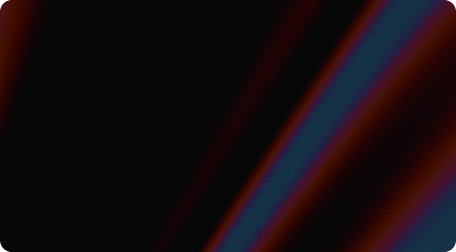
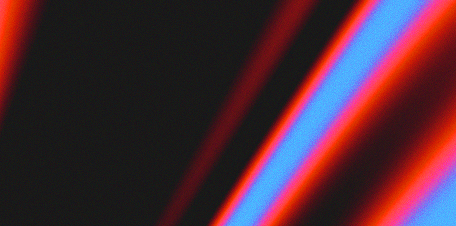
redesign: Dashboard overview to have dynamic colors based on the selected account

diff --git a/src/common/modules/dashboard/components/DashboardOverview/OverviewBackground.tsx b/src/common/modules/dashboard/components/DashboardOverview/OverviewBackground.tsx
@@ -1,0 +1,91 @@
+import { StyleSheet, View } from 'react-native'
+import { Defs, FeBlend, FeColorMatrix, Filter, Image as SvgImage, Svg } from 'react-native-svg'
+
+import useControllerState from '@common/hooks/useControllerState'
+import { BORDER_RADIUS_PRIMARY } from '@common/styles/utils/common'
+import { getAvatarColors } from '@common/utils/avatars'
+
+import backgroundImage from './background.png'
+
+/** Parse a hex color to normalized [r, g, b] values (0–1) */
+function hexToRgbNorm(hex: string): [number, number, number] {
+  return [
+    parseInt(hex.slice(1, 3), 16) / 255,
+    parseInt(hex.slice(3, 5), 16) / 255,
+    parseInt(hex.slice(5, 7), 16) / 255
+  ]
+}
+
+// How different are two colors perceptually? Returns 0 (same) to 1 (max contrast).
+// Using luminance weights because our eyes are much more sensitive to green than blue.
+function colorDistance(hex1: string, hex2: string): number {
+  const [r1, g1, b1] = hexToRgbNorm(hex1)
+  const [r2, g2, b2] = hexToRgbNorm(hex2)
+  return Math.sqrt(0.299 * (r1 - r2) ** 2 + 0.587 * (g1 - g2) ** 2 + 0.114 * (b1 - b2) ** 2)
+}
+
+// Builds a 4×5 SVG color matrix that takes one source channel (R=0, G=1, B=2)
+// and outputs it as the given target color. Everything else goes black, so only
+// the relevant tones in the image get recolored and the two layers don't bleed into each other.
+function channelToColorMatrix(srcChannel: 0 | 1 | 2, tr: number, tg: number, tb: number): string {
+  const row = (target: number) => {
+    const r = [0, 0, 0, 0, 0]
+    r[srcChannel] = target
+    return r.join(' ')
+  }
+  return `${row(tr)} ${row(tg)} ${row(tb)} 0 0 0 1 0`
+}
+
+export function OverviewBackground({ address, maxHeight }: { address: string; maxHeight: number }) {
+  const { state } = useControllerState({ id: 'WalletStateController' })
+  const colors = getAvatarColors(state.avatarType, address)
+
+  // Avatar colors[0] and colors[1] can sometimes be almost identical (e.g. two dark purples).
+  // In that case, fall back to colors[2] as the secondary so the two layers actually look different.
+  const DISTANCE_THRESHOLD = 0.2
+  const d01 = colorDistance(colors[0], colors[1])
+  const d02 = colorDistance(colors[0], colors[2])
+  const secondary = d01 >= DISTANCE_THRESHOLD || d02 < d01 ? colors[1] : colors[2]
+
+  const [r1, g1, b1] = hexToRgbNorm(colors[0])
+  const [r2, g2, b2] = hexToRgbNorm(secondary)
+
+  // Two matrices: one that maps the red tones in the image to the primary avatar color,
+  // and one that maps the blue tones to the secondary. feBlend screen then combines them
+  // so both colors show up without washing each other out.
+  const matrix1 = channelToColorMatrix(0, r1, g1, b1)
+  const matrix2 = channelToColorMatrix(2, r2, g2, b2)
+
+  return (
+    <View
+      style={[
+        StyleSheet.absoluteFill,
+        {
+          height: maxHeight,
+          backgroundColor: '#000000',
+          borderRadius: BORDER_RADIUS_PRIMARY,
+          overflow: 'hidden'
+        }
+      ]}
+    >
+      <Svg width="100%" height="100%">
+        <Defs>
+          <Filter id="recolor" x="0%" y="0%" width="100%" height="100%">
+            <FeColorMatrix type="matrix" values={matrix1} in="SourceGraphic" result="layer1" />
+            <FeColorMatrix type="matrix" values={matrix2} in="SourceGraphic" result="layer2" />
+            <FeBlend in="layer1" in2="layer2" mode="screen" />
+          </Filter>
+        </Defs>
+
+        <SvgImage
+          href={backgroundImage}
+          width="100%"
+          height="100%"
+          preserveAspectRatio="xMidYMid slice"
+          opacity={0.28}
+          filter="url(#recolor)"
+        />
+      </Svg>
+    </View>
+  )
+}

diff --git a/src/common/modules/dashboard/components/DashboardOverview/DashboardOverview.tsx b/src/common/modules/dashboard/components/DashboardOverview/DashboardOverview.tsx
@@ -17,9 +17,9 @@ import spacings, { SPACING, SPACING_MD, SPACING_TY, SPACING_XL } from '@common/s
 import common from '@common/styles/utils/common'
 import flexbox from '@common/styles/utils/flexbox'
 
-import backgroundImage from './background.png'
 import BalanceAffectingErrors from './BalanceAffectingErrors'
 import GasTankButton from './GasTankButton'
+import { OverviewBackground } from './OverviewBackground'
 import RefreshIcon from './RefreshIcon'
 import RewardsButton from './RewardsButton'
 import getStyles from './styles'
@@ -69,7 +69,6 @@ const DashboardOverview: FC<Props> = ({
     isLoadingTakingTooLong,
     networksWithErrors
   } = useBalanceAffectingErrors()
-
   const totalPortfolioAmount = useMemo(() => portfolio?.totalBalance || 0, [portfolio])
 
   const [totalPortfolioAmountIntegerFormattedPart, totalPortfolioAmountDecimalFormattedPart] =
@@ -113,12 +112,7 @@ const DashboardOverview: FC<Props> = ({
           })
         }}
       >
-        {/* TODO: Style based on selected account; Add overlay in the extension */}
-        <Image
-          source={typeof backgroundImage === 'number' ? backgroundImage : { uri: backgroundImage }}
-          resizeMode="cover"
-          style={[StyleSheet.absoluteFill, { height: OVERVIEW_CONTENT_MAX_HEIGHT }]}
-        />
+        <OverviewBackground address={account?.addr || ''} maxHeight={OVERVIEW_CONTENT_MAX_HEIGHT} />
         <View style={{ zIndex: 2 }}>
           <DashboardHeader />
           <Animated.View

diff --git a/src/mobile/modules/keystore/screens/KeyStoreUnlockScreen/KeyStoreUnlockScreen.tsx b/src/mobile/modules/keystore/screens/KeyStoreUnlockScreen/KeyStoreUnlockScreen.tsx
@@ -14,7 +14,7 @@ import useController from '@common/hooks/useController'
 import useDisableNavigatingBack from '@common/hooks/useDisableNavigatingBack'
 import useNavigation from '@common/hooks/useNavigation'
 import useTheme from '@common/hooks/useTheme'
-import backgroundImage from '@common/modules/dashboard/components/DashboardOverview/background.png'
+import backgroundImage from '@common/modules/keystore/images/background.png'
 import spacings from '@common/styles/spacings'
 import { BORDER_RADIUS_PRIMARY } from '@common/styles/utils/common'
 import flexbox from '@common/styles/utils/flexbox'
@@ -130,7 +130,7 @@ const KeyStoreUnlockScreen = () => {
               <LockIcon width={24} height={24} color="#fff" style={spacings.mlTy} />
             </View>
             <AmbireLogoWithBackgroundAndLogotype color="#fff" style={spacings.mbXl} />
-            <Text weight="medium" appearance="tertiaryText" style={text.center}>
+            <Text weight="medium" color="#B9BFC9" style={text.center}>
               {t('Easy and secure self-custody for the\nEthereum ecosystem')}
             </Text>
           </View>

diff --git a/src/web/modules/keystore/screens/KeyStoreUnlockScreen/KeyStoreUnlockScreen.tsx b/src/web/modules/keystore/screens/KeyStoreUnlockScreen/KeyStoreUnlockScreen.tsx
@@ -15,7 +15,7 @@ import useController from '@common/hooks/useController'
 import useDisableNavigatingBack from '@common/hooks/useDisableNavigatingBack'
 import useNavigation from '@common/hooks/useNavigation'
 import useTheme from '@common/hooks/useTheme'
-import backgroundImage from '@common/modules/dashboard/components/DashboardOverview/background.png'
+import backgroundImage from '@common/modules/keystore/images/background.png'
 import { ROUTES } from '@common/modules/router/constants/common'
 import spacings from '@common/styles/spacings'
 import { BORDER_RADIUS_PRIMARY } from '@common/styles/utils/common'
@@ -133,7 +133,7 @@ const KeyStoreUnlockScreen = () => {
             <LockIcon width={24} height={24} color="#fff" style={spacings.mlTy} />
           </View>
           <AmbireLogoWithBackgroundAndLogotype color="#fff" style={spacings.mbXl} />
-          <Text weight="medium" color="#50555D" style={text.center}>
+          <Text weight="medium" color="#B9BFC9" style={text.center}>
             {t('Easy and secure self-custody for the\nEthereum ecosystem')}
           </Text>
         </View>

diff --git a/src/common/utils/avatars.ts b/src/common/utils/avatars.ts
@@ -26,14 +26,16 @@ const getAvatarColors = (avatarType: AvatarType, address: string): AvatarColors 
       return FALLBACK_COLORS
     }
 
-    return [colors[2]!, colors[1]!, colors[0]!]
+    console.log('Debug: colors extracted from Jazzicon SVG:', colors) // Debug log
+
+    return [colors[1]!, colors[2]!, colors[3]!]
   }
 
   if (avatarType === 'polycons') {
     const seed = generateSeedEthereum(address)
     const polyconColors = getPolyconColors(seed)
 
-    return [polyconColors.bgColor, polyconColors.fgColor, polyconColors.fgColor]
+    return [polyconColors.fgColor, polyconColors.fgColor, polyconColors.bgColor]
   }
 
   return FALLBACK_COLORS
